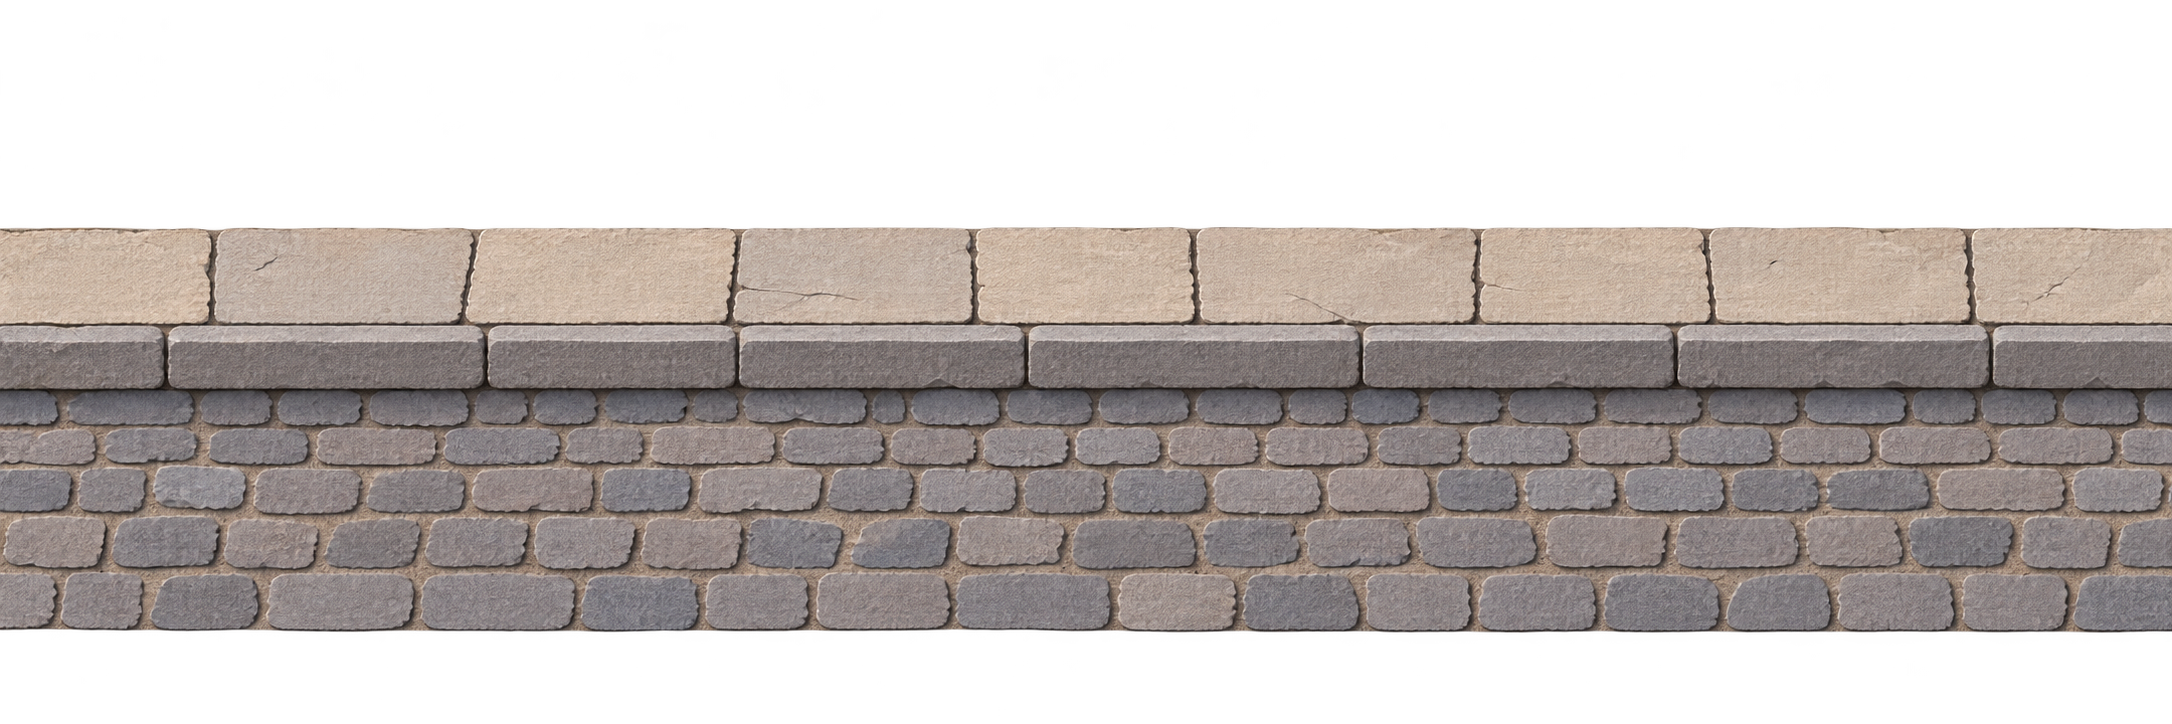
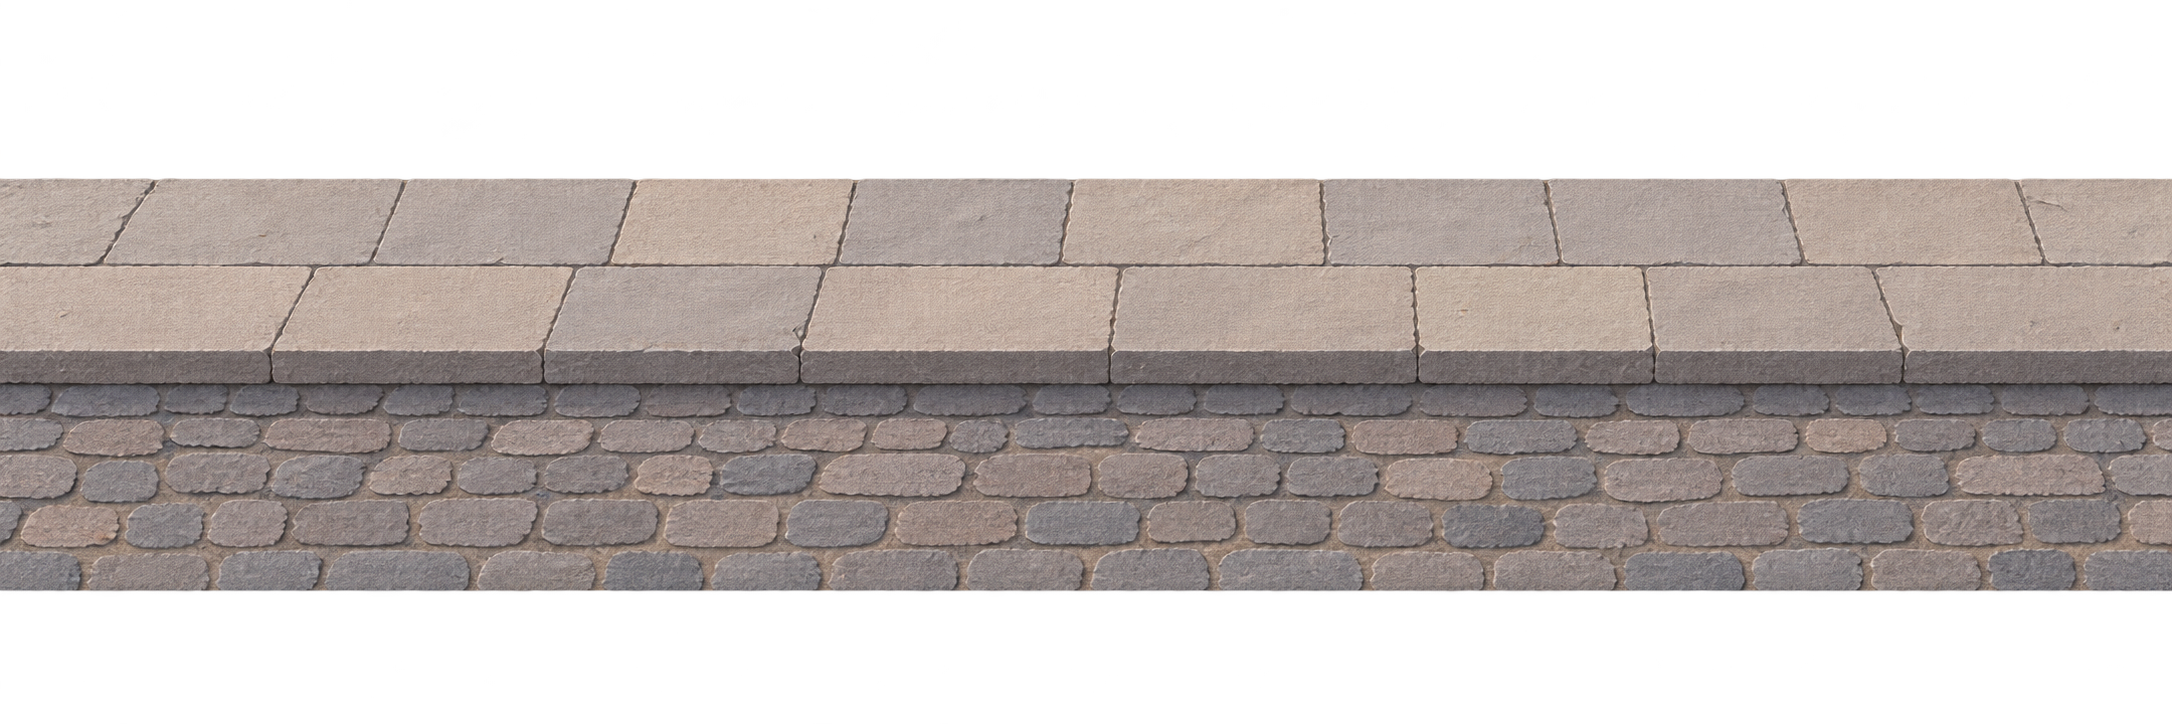
Redo pavement with visible flat walking surfaces

diff --git a/art/incoming/street/PAVEMENT-REDO.md b/art/incoming/street/PAVEMENT-REDO.md
@@ -1,0 +1,11 @@
+# Pavement correction
+
+Responds to https://github.com/magnify/adventuregame/pull/3#issuecomment-5794475123.
+
+Replaces only art/incoming/street/pavement.png on codex/street-art-round-1; tree and houses remain unchanged. Built-in image_gen, one new call, street-anchor.webp reference.
+
+2172 × 724 RGBA; transparent above/below the strip, visible bounds at alpha >128 are [0,178,2172,591]. Reviewed neutral-background preview and a right-to-left join. The new geometry shows two rows of walkable slab tops, a thin kerb face, and flat road cobbles. Join colour appears more even in the preview; exact pixel-seamless repeat is not guaranteed and needs the game-scale check. Solid paper opacity may still need normalization on import, as the review permits. No code changes or game/device checks.
+
+## Exact prompt
+
+Use case: illustration-story. Create replacement pavement.png for the street reference, EXACT canvas 2172x724, wide 3:1. Study the BOTTOM STRIP of the attached reference: the walkable flat TOP surfaces of paving slabs and cobbled road are seen from a LOW CAMERA slightly above them, about 15 degrees looking downward. This must read as GROUND TO WALK ON. Upper half of the isolated ground strip: two rows of large pale warm-grey pavement slabs LYING FLAT, their top faces are shallow foreshortened parallelograms/trapezoids with fine mortar joints. Then a very THIN vertical kerb lip, about 15-20px high, running level across the image. Below it, several rows of small irregular grey cobblestones LYING FLAT as road, their upper faces visible and compressed by the low angle. The kerb is the ONLY narrow vertical face. Absolutely no stacked bricks, masonry wall, upright stone blocks, tall kerb, or vertical cross-section. Ground extends horizontally across full width in an orthographic stage-set view: no vanishing point, no slope. Keep slab/road depth and horizontal courses constant. Even neutral illumination and IDENTICAL colour at far left and right; match cut stones, joints and alpha contour at opposite edges so horizontal copies tile seamlessly without a colour step. Transparent space above and below the isolated strip, clear straight horizontal upper and lower extents. No houses, tree, cat, lamp, leaves, weeds, person, sky or props. Match reference's photographed layered beige/grey paper, torn fibers and shallow shadows. Fully opaque alpha 255 on solid paper; only exterior is transparent. Same style, palette and paper texture as the reference image. Made of layered cut paper and card, photographed, soft shadows between layers. Side view. Transparent background. No text.
